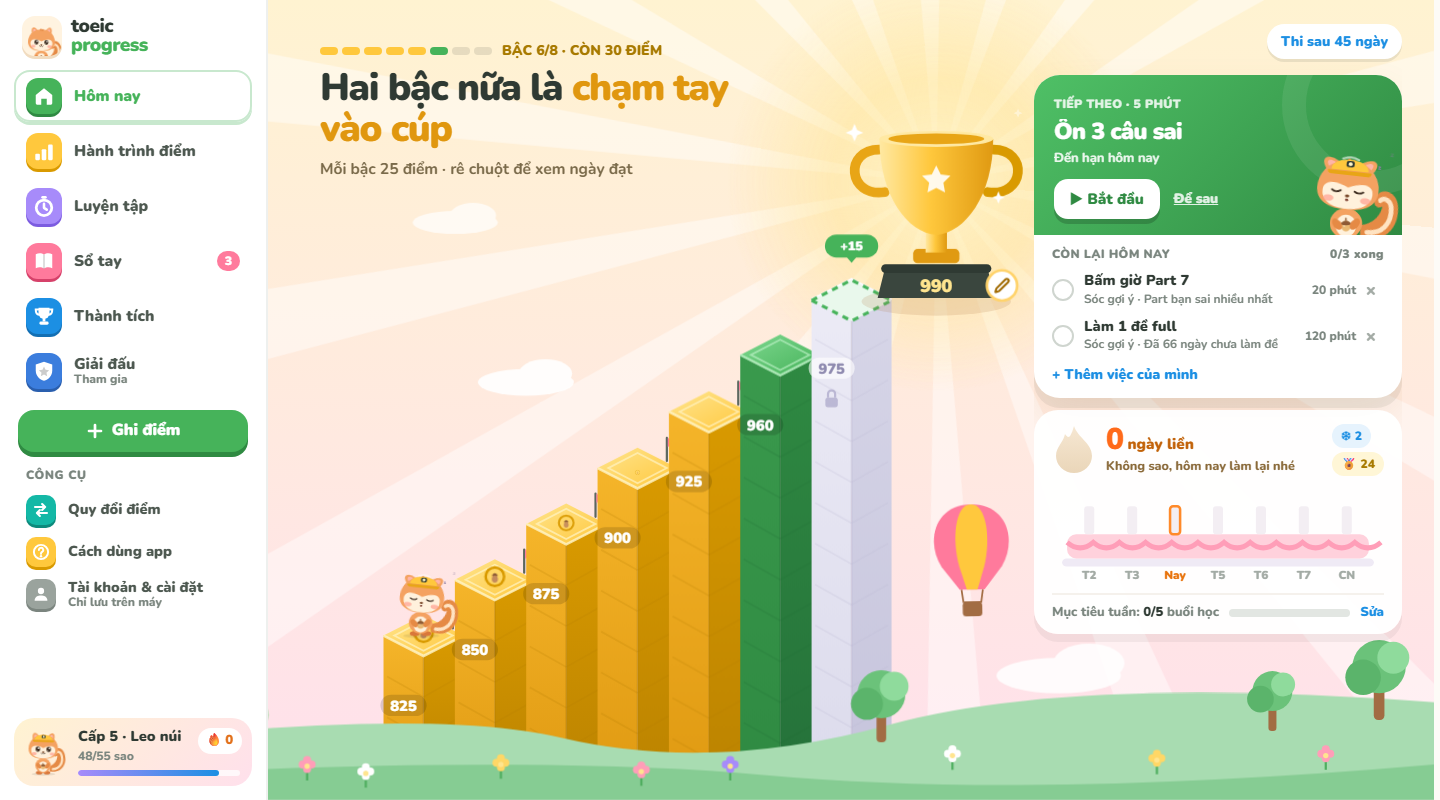
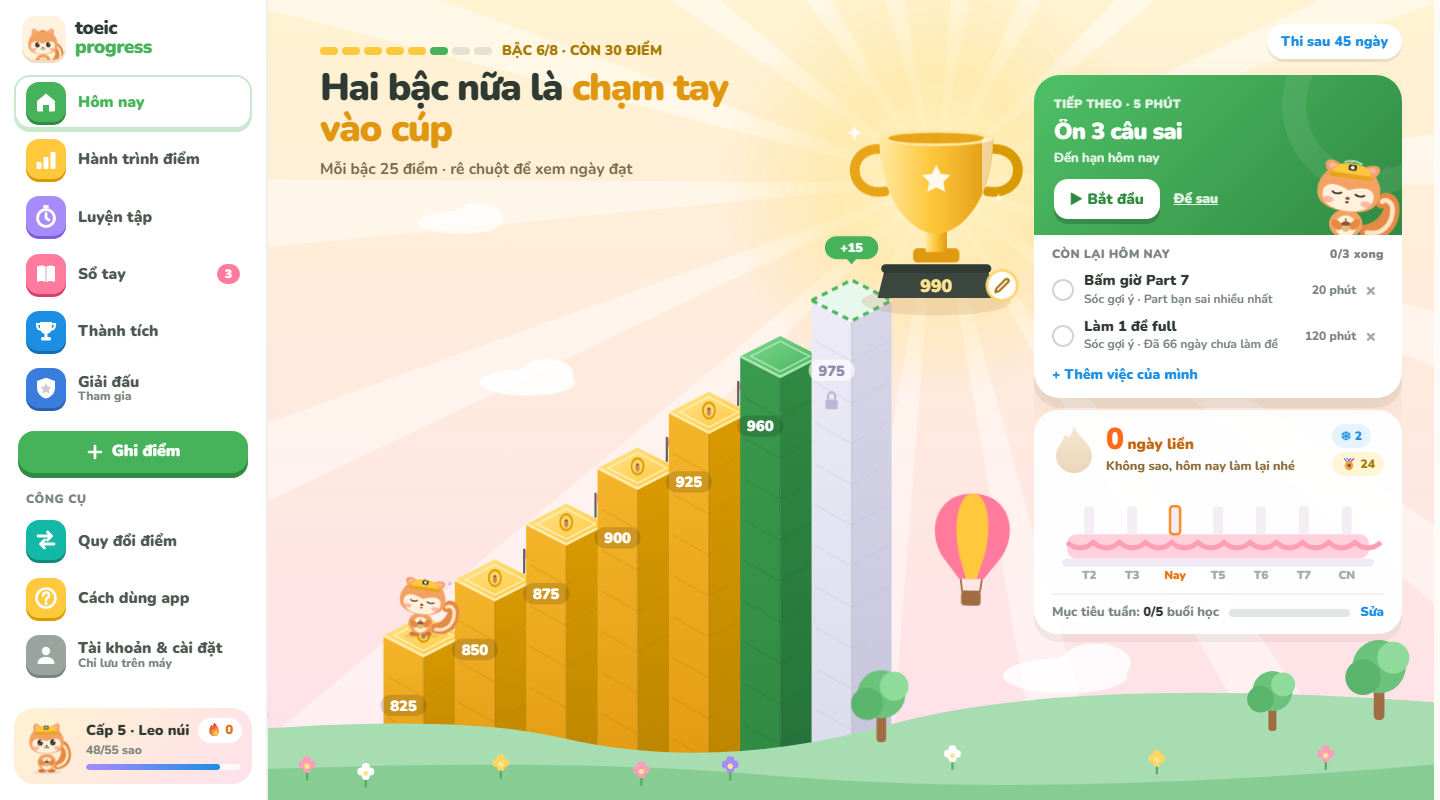
Sidebar keeps its original large sizes and shrinks smoothly only when the window is short
Replaces the two height tiers with vh-based clamp() sizes: at 900px tall and
above every size matches the original (Công cụ rows the same as the main
ones, sync sub-line shown). Below that the gaps shrink first (900px to
~700px), then icons, Sóc and labels a little; the middle block only scrolls
below ~570px. The sync dot replaces the sub-line only at 640px and below.
Adds an original-sidebar reference shot at 1440x900 and a 1440x880 shot.

diff --git a/frontend/src/app/components/rd-sidebar.css b/frontend/src/app/components/rd-sidebar.css
@@ -1,8 +1,17 @@
 .rd-side {
   position: sticky; top: 0; z-index: 30; height: 100vh; width: 268px; flex: none;
   display: none; flex-direction: column; overflow: hidden;
-  background: #fff; border-right: 2px solid #eef0ee; padding: 22px 14px;
+  background: #fff; border-right: 2px solid #eef0ee; padding: var(--sd-pv) 14px;
   --rd-teal: #14b8a6; --rd-teal-d: #0d8a7c; /* Công cụ */
+  /* Height fit: at 900px tall and above every size is the original one. Below that the gaps shrink first
+     (smoothly, ~900px down to 700px), then icons, Sóc and labels shrink a little; the middle only scrolls
+     below ~580px. --sd-k is how far the window is above 702px (negative below it). */
+  --sd-k: calc(100vh - 702px);
+  --sd-pv: clamp(10px, calc(10px + var(--sd-k) * .06), 22px);
+  --sd-pad: clamp(2px, calc(2px + var(--sd-k) * .03), 8px);
+  --sd-mb: clamp(2px, calc(2px + var(--sd-k) * .015), 5px);
+  --sd-ic: clamp(30px, calc(40px + var(--sd-k) * .085), 40px);
+  --sd-fs: clamp(14px, calc(15.5px + var(--sd-k) * .012), 15.5px);
 }
 @media (min-width: 768px) { .rd-side { display: flex; } }
 .rd-side button:not(.rd-btn) { font-family: var(--rd-font); background: none; border: 0; text-align: left; color: inherit; }
@@ -10,8 +19,8 @@
 
 /* Middle block (nav, Ghi điểm, Công cụ) takes the free height and scrolls alone when the window is very short. */
 .rd-side__mid { flex: 1 1 auto; min-height: 0; display: flex; flex-direction: column; overflow-y: auto; overscroll-behavior: contain;
-  margin: 0 -6px; padding: 0 6px 8px; scrollbar-width: thin; }
-.rd-side__logo { flex: none; display: flex; align-items: center; gap: 9px; padding: 0 8px 22px; cursor: pointer; }
+  margin: 0 -6px; padding: 0 6px clamp(0px, calc(var(--sd-k) * .04), 8px); scrollbar-width: thin; }
+.rd-side__logo { flex: none; display: flex; align-items: center; gap: 9px; padding: 0 8px clamp(8px, calc(8px + var(--sd-k) * .07), 22px); cursor: pointer; }
 .rd-side__mark { width: 44px; height: 44px; border-radius: 14px; background: #fff3e0; box-shadow: 0 3px 0 #f1dcc0; overflow: hidden; flex: none; }
 .rd-side__logosoc { display: block; margin: 7px auto 0; }
 .rd-side__ic svg { display: block; width: 100%; }
@@ -20,9 +29,9 @@
 .rd-side__word span { display: block; color: var(--rd-green); }
 
 .rd-side__it {
-  display: flex; align-items: center; gap: 12px; width: 100%; padding: 8px 10px; margin-bottom: 5px;
+  display: flex; align-items: center; gap: 12px; width: 100%; padding: var(--sd-pad) 10px; margin-bottom: var(--sd-mb);
   border-radius: 16px; border: 2px solid transparent !important; cursor: pointer;
-  font-weight: 900; font-size: 15.5px; color: #4d5850 !important; transition: background .15s;
+  font-weight: 900; font-size: var(--sd-fs); color: #4d5850 !important; transition: background .15s;
 }
 .rd-side__it:hover { background: var(--rd-soft); }
 .rd-side__it:hover .rd-side__ic { transform: translateY(-2px); }
@@ -36,21 +45,19 @@
 .rd-side__it.is-soon { cursor: default; opacity: .55; }
 .rd-side__it.is-soon:hover { background: none; }
 .rd-side__it.is-soon:hover .rd-side__ic { transform: none; }
-.rd-side__ic { width: 40px; height: 40px; border-radius: 13px; padding: 8px; flex: none; transition: transform .15s; }
-/* Công cụ rows are lighter than the main nav: smaller tile, tighter row. */
-.rd-side__it.is-tool { padding: 5px 10px; margin-bottom: 3px; font-size: 14.5px; }
-.rd-side__it.is-tool .rd-side__ic { width: 34px; height: 34px; border-radius: 11px; padding: 7px; }
+.rd-side__ic { width: var(--sd-ic); height: var(--sd-ic); border-radius: calc(var(--sd-ic) * .325); padding: calc(var(--sd-ic) * .2); flex: none; transition: transform .15s; }
 .rd-side__it em { margin-left: auto; font-style: normal; font-weight: 900; font-size: 12px; background: var(--rd-pink); color: #fff; border-radius: 99px; padding: 1px 8px; }
 
-.rd-side__cta { margin: 16px 4px 0; width: calc(100% - 8px); padding: 13px; }
+.rd-side__cta { margin: clamp(8px, calc(8px + var(--sd-k) * .04), 16px) 4px 0; width: calc(100% - 8px); padding: clamp(8px, calc(8px + var(--sd-k) * .025), 13px); }
 
-.rd-side__grp { font-weight: 900; font-size: 12px; color: var(--rd-mut); letter-spacing: .6px; padding: 24px 12px 6px; margin: 0; }
+.rd-side__grp { font-weight: 900; font-size: 12px; color: var(--rd-mut); letter-spacing: .6px; padding: clamp(10px, calc(10px + var(--sd-k) * .07), 24px) 12px clamp(2px, calc(2px + var(--sd-k) * .02), 6px); margin: 0; }
 .rd-side__grp + .rd-side__it { margin-top: 2px; }
 
-.rd-side__me { position: relative; flex: none; margin-top: 6px; display: flex; align-items: center; gap: 10px; width: 100%; padding: 12px 12px 12px 8px; border-radius: 20px; cursor: pointer;
+.rd-side__me { position: relative; flex: none; margin-top: clamp(0px, calc(var(--sd-k) * .03), 6px); display: flex; align-items: center; gap: 10px; width: 100%;
+  padding: clamp(6px, calc(6px + var(--sd-k) * .03), 12px) 12px clamp(6px, calc(6px + var(--sd-k) * .03), 12px) 8px; border-radius: 20px; cursor: pointer;
   background: linear-gradient(135deg, #fff3d1, #ffe0ec) !important; transition: transform .12s, box-shadow .12s; }
 .rd-side__me:hover { transform: translateY(-2px); box-shadow: 0 4px 0 rgba(214, 65, 106, .14); }
-.rd-side__soc { flex: none; }
+.rd-side__soc { flex: none; width: clamp(42px, calc(54px + var(--sd-k) * .1), 54px) !important; }
 .rd-side__who { flex: 1; min-width: 0; }
 .rd-side__who b { display: block; padding-right: 40px; font-weight: 900; font-size: 14.5px; line-height: 1.2; }
 .rd-side__who small { display: block; margin-top: 2px; font-weight: 800; font-size: 12px; color: var(--rd-mut); }
@@ -67,50 +74,19 @@
 .rd-side__dot.is-ok { background: var(--rd-green); }
 .rd-side__dot.is-warn { background: #f59e0b; }
 
-/* Shorter windows (laptops ~800px tall): tighter rows so the level card stays in view. */
-@media (min-width: 768px) and (max-height: 860px) {
-  .rd-side { padding: 16px 14px 14px; }
-  .rd-side__logo { padding-bottom: 14px; }
-  .rd-side__mark { width: 40px; height: 40px; border-radius: 13px; }
-  .rd-side__logosoc { width: 42px !important; margin-top: 6px; }
-  .rd-side__it { padding: 6px 10px; margin-bottom: 3px; }
-  .rd-side__ic { width: 36px; height: 36px; border-radius: 12px; padding: 7px; }
-  .rd-side__it.is-tool { padding: 3px 10px; margin-bottom: 2px; }
-  .rd-side__it.is-tool .rd-side__ic { width: 30px; height: 30px; border-radius: 10px; padding: 6px; }
-  .rd-side__cta { margin-top: 10px; padding: 11px; }
-  .rd-side__grp { padding: 14px 12px 4px; }
-  .rd-side__me { padding: 9px 12px 9px 8px; }
-  .rd-side__soc { width: 46px !important; }
-}
-/* Short windows (1366×768 with browser bars, 1280×720): one-line tools, sync shown as a dot. */
-@media (min-width: 768px) and (max-height: 760px) {
-  .rd-side { padding: 12px 14px 12px; }
-  .rd-side__logo { padding-bottom: 10px; }
-  .rd-side__mark { width: 34px; height: 34px; border-radius: 11px; box-shadow: 0 2px 0 #f1dcc0; }
-  .rd-side__logosoc { width: 36px !important; margin-top: 5px; }
-  .rd-side__word { font-size: 17px; }
-  .rd-side__it { padding: 4px 10px; margin-bottom: 2px; font-size: 15px; }
-  .rd-side__ic { width: 32px; height: 32px; border-radius: 11px; padding: 6px; }
-  .rd-side__it.is-tool { padding: 2px 10px; font-size: 14px; }
-  .rd-side__it.is-tool .rd-side__ic { width: 28px; height: 28px; border-radius: 9px; padding: 5.5px; }
+/* At short heights the sync line becomes a coloured dot (also on the icon rail). */
+@media (min-width: 768px) and (max-height: 640px) {
   .rd-side__set.is-sync small { display: none; }
-  .rd-side__set small { font-size: 11.5px; }
   .rd-side__dot { display: block; }
-  .rd-side__cta { margin-top: 8px; padding: 9px; }
-  .rd-side__grp { padding: 10px 12px 3px; font-size: 11px; }
-  .rd-side__me { padding: 7px 10px 7px 6px; border-radius: 16px; }
-  .rd-side__soc { width: 40px !important; }
-  .rd-side__who small { margin-top: 1px; }
-  .rd-side__fire { top: 7px; }
 }
 
 /* Tablet: icon column only. */
 @media (min-width: 768px) and (max-width: 1023px) {
-  .rd-side { width: 76px; padding: 18px 10px; align-items: center; }
+  .rd-side { width: 76px; padding: clamp(10px, calc(10px + var(--sd-k) * .04), 18px) 10px; align-items: center; }
   .rd-side__lbl, .rd-side__word, .rd-side__grp, .rd-side__who, .rd-side__it em { display: none; }
   .rd-side__logo { padding: 0 0 18px; }
   .rd-side__mid { align-items: center; width: calc(100% + 12px); }
-  .rd-side__it, .rd-side__it.is-tool { position: relative; padding: 6px; justify-content: center; }
+  .rd-side__it { position: relative; padding: min(6px, var(--sd-pad)); justify-content: center; }
   .rd-side__dot { display: block; position: absolute; top: 4px; right: 4px; margin: 0; }
   .rd-side__cta { width: 52px; padding: 12px 0; margin: 12px 0 0; }
   .rd-side__me { flex-direction: column; padding: 8px 4px; gap: 4px; width: 56px; }
